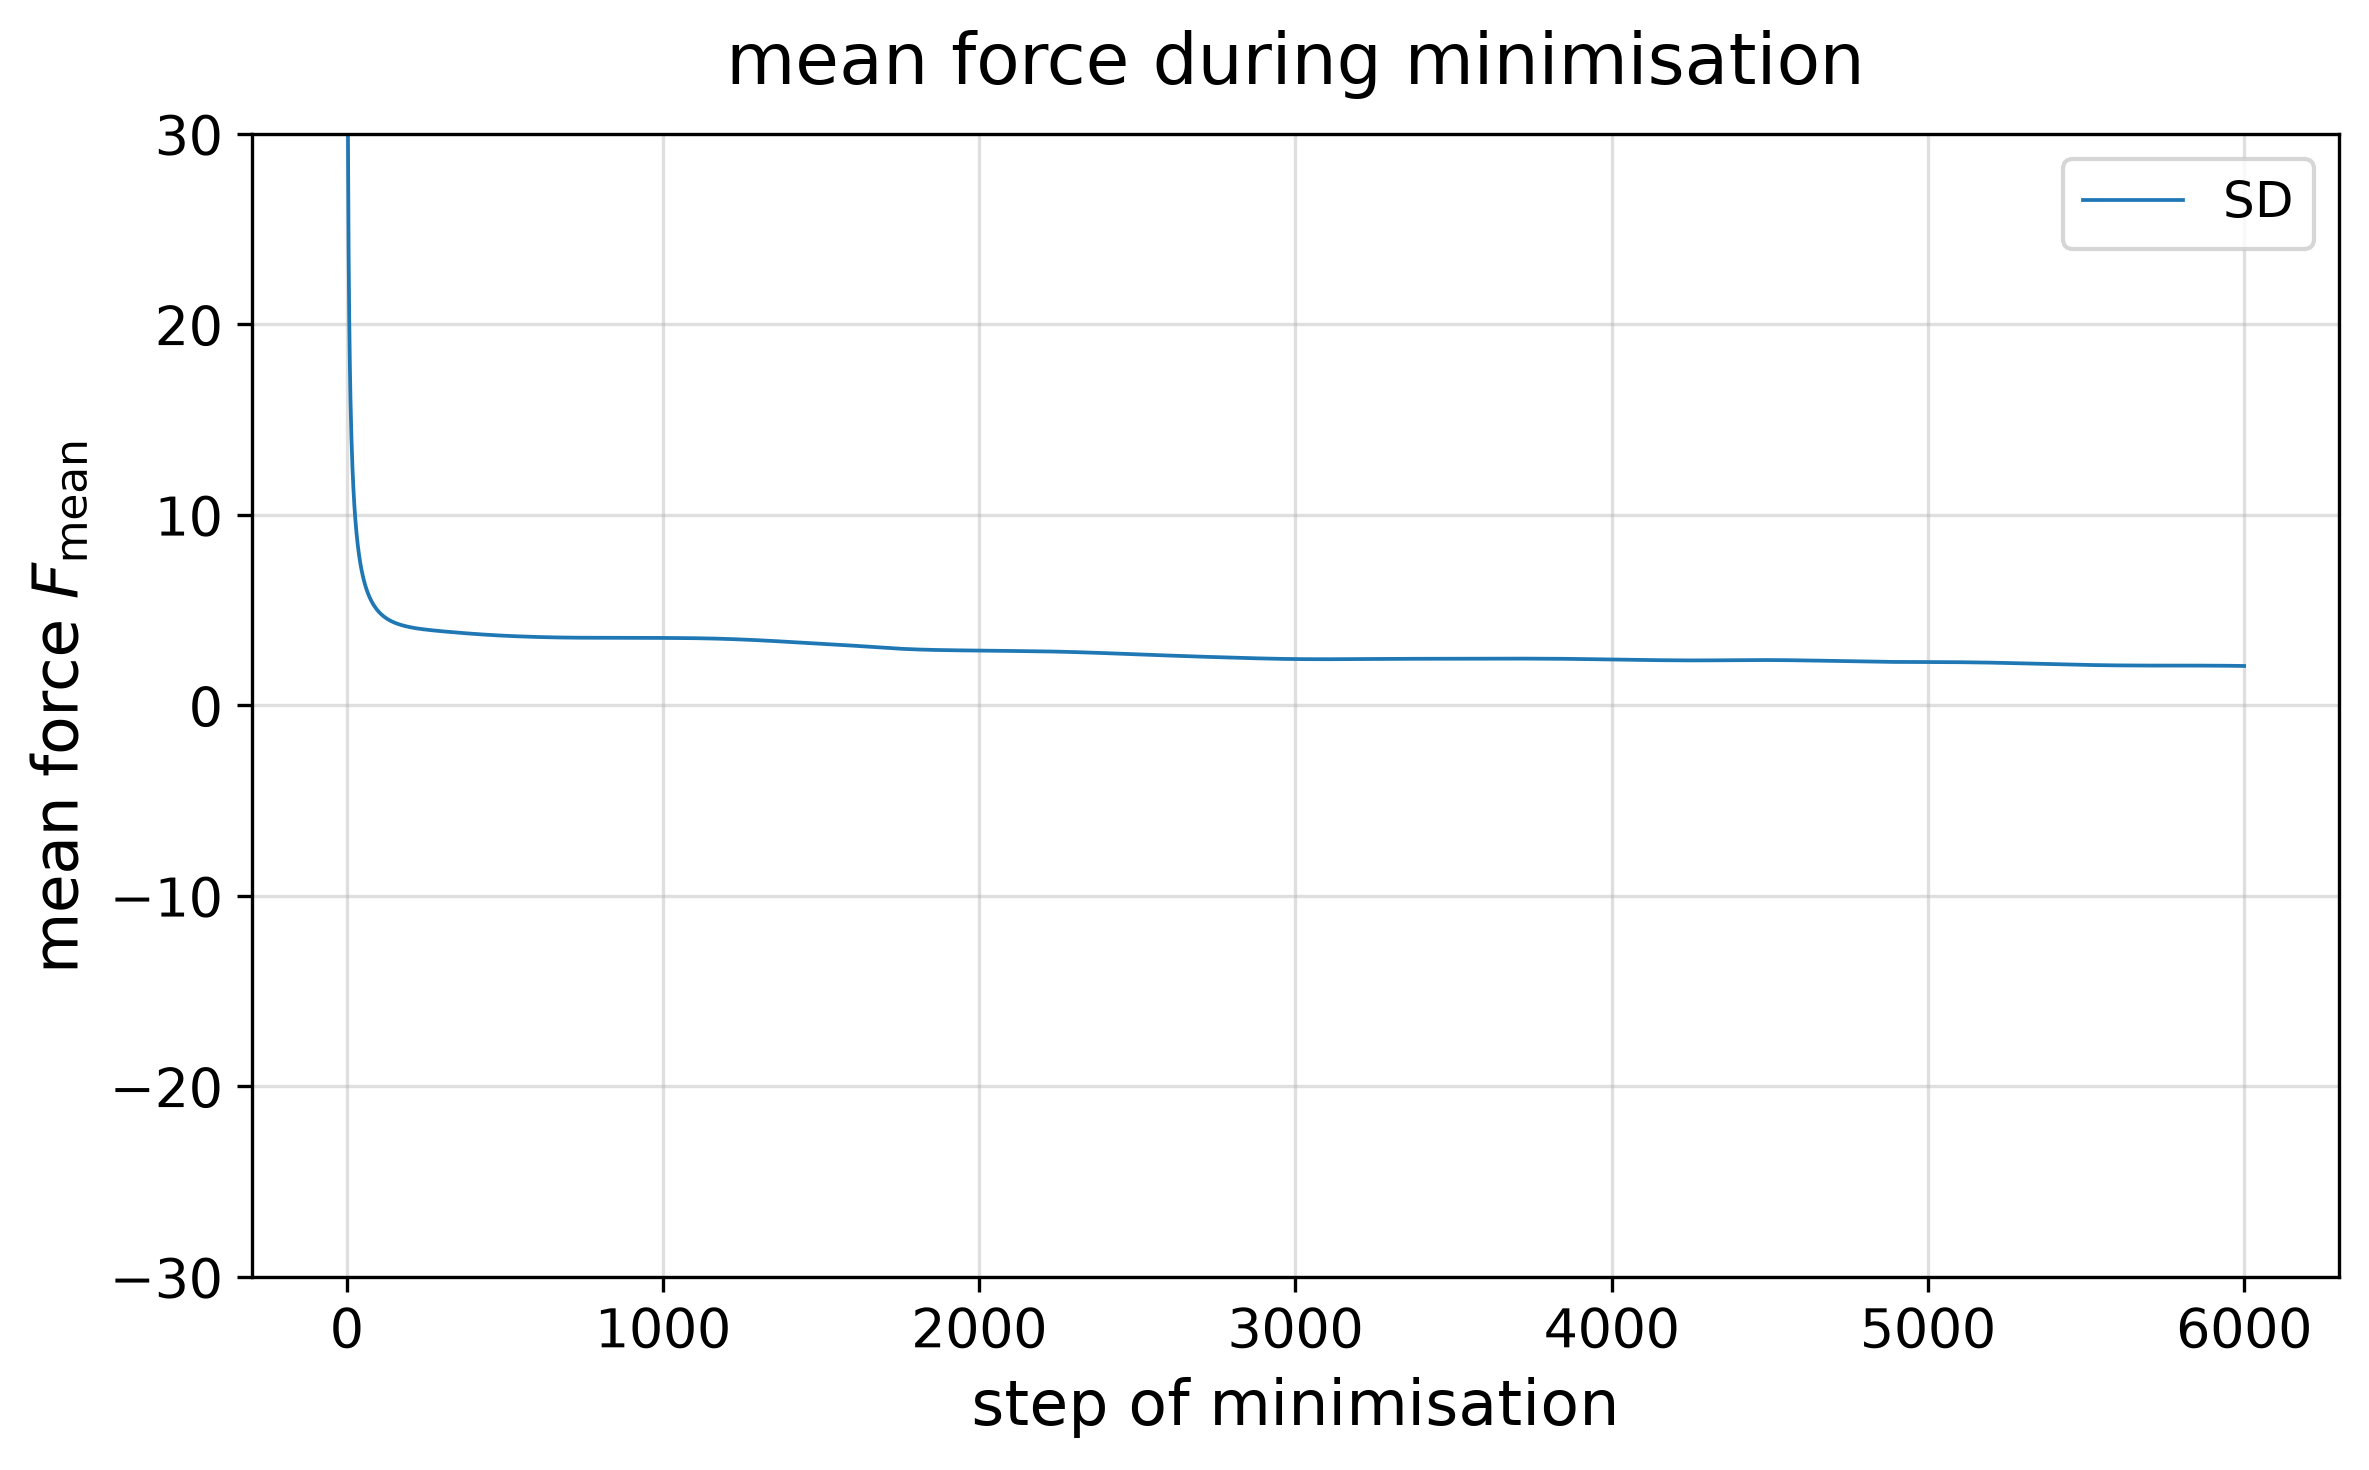
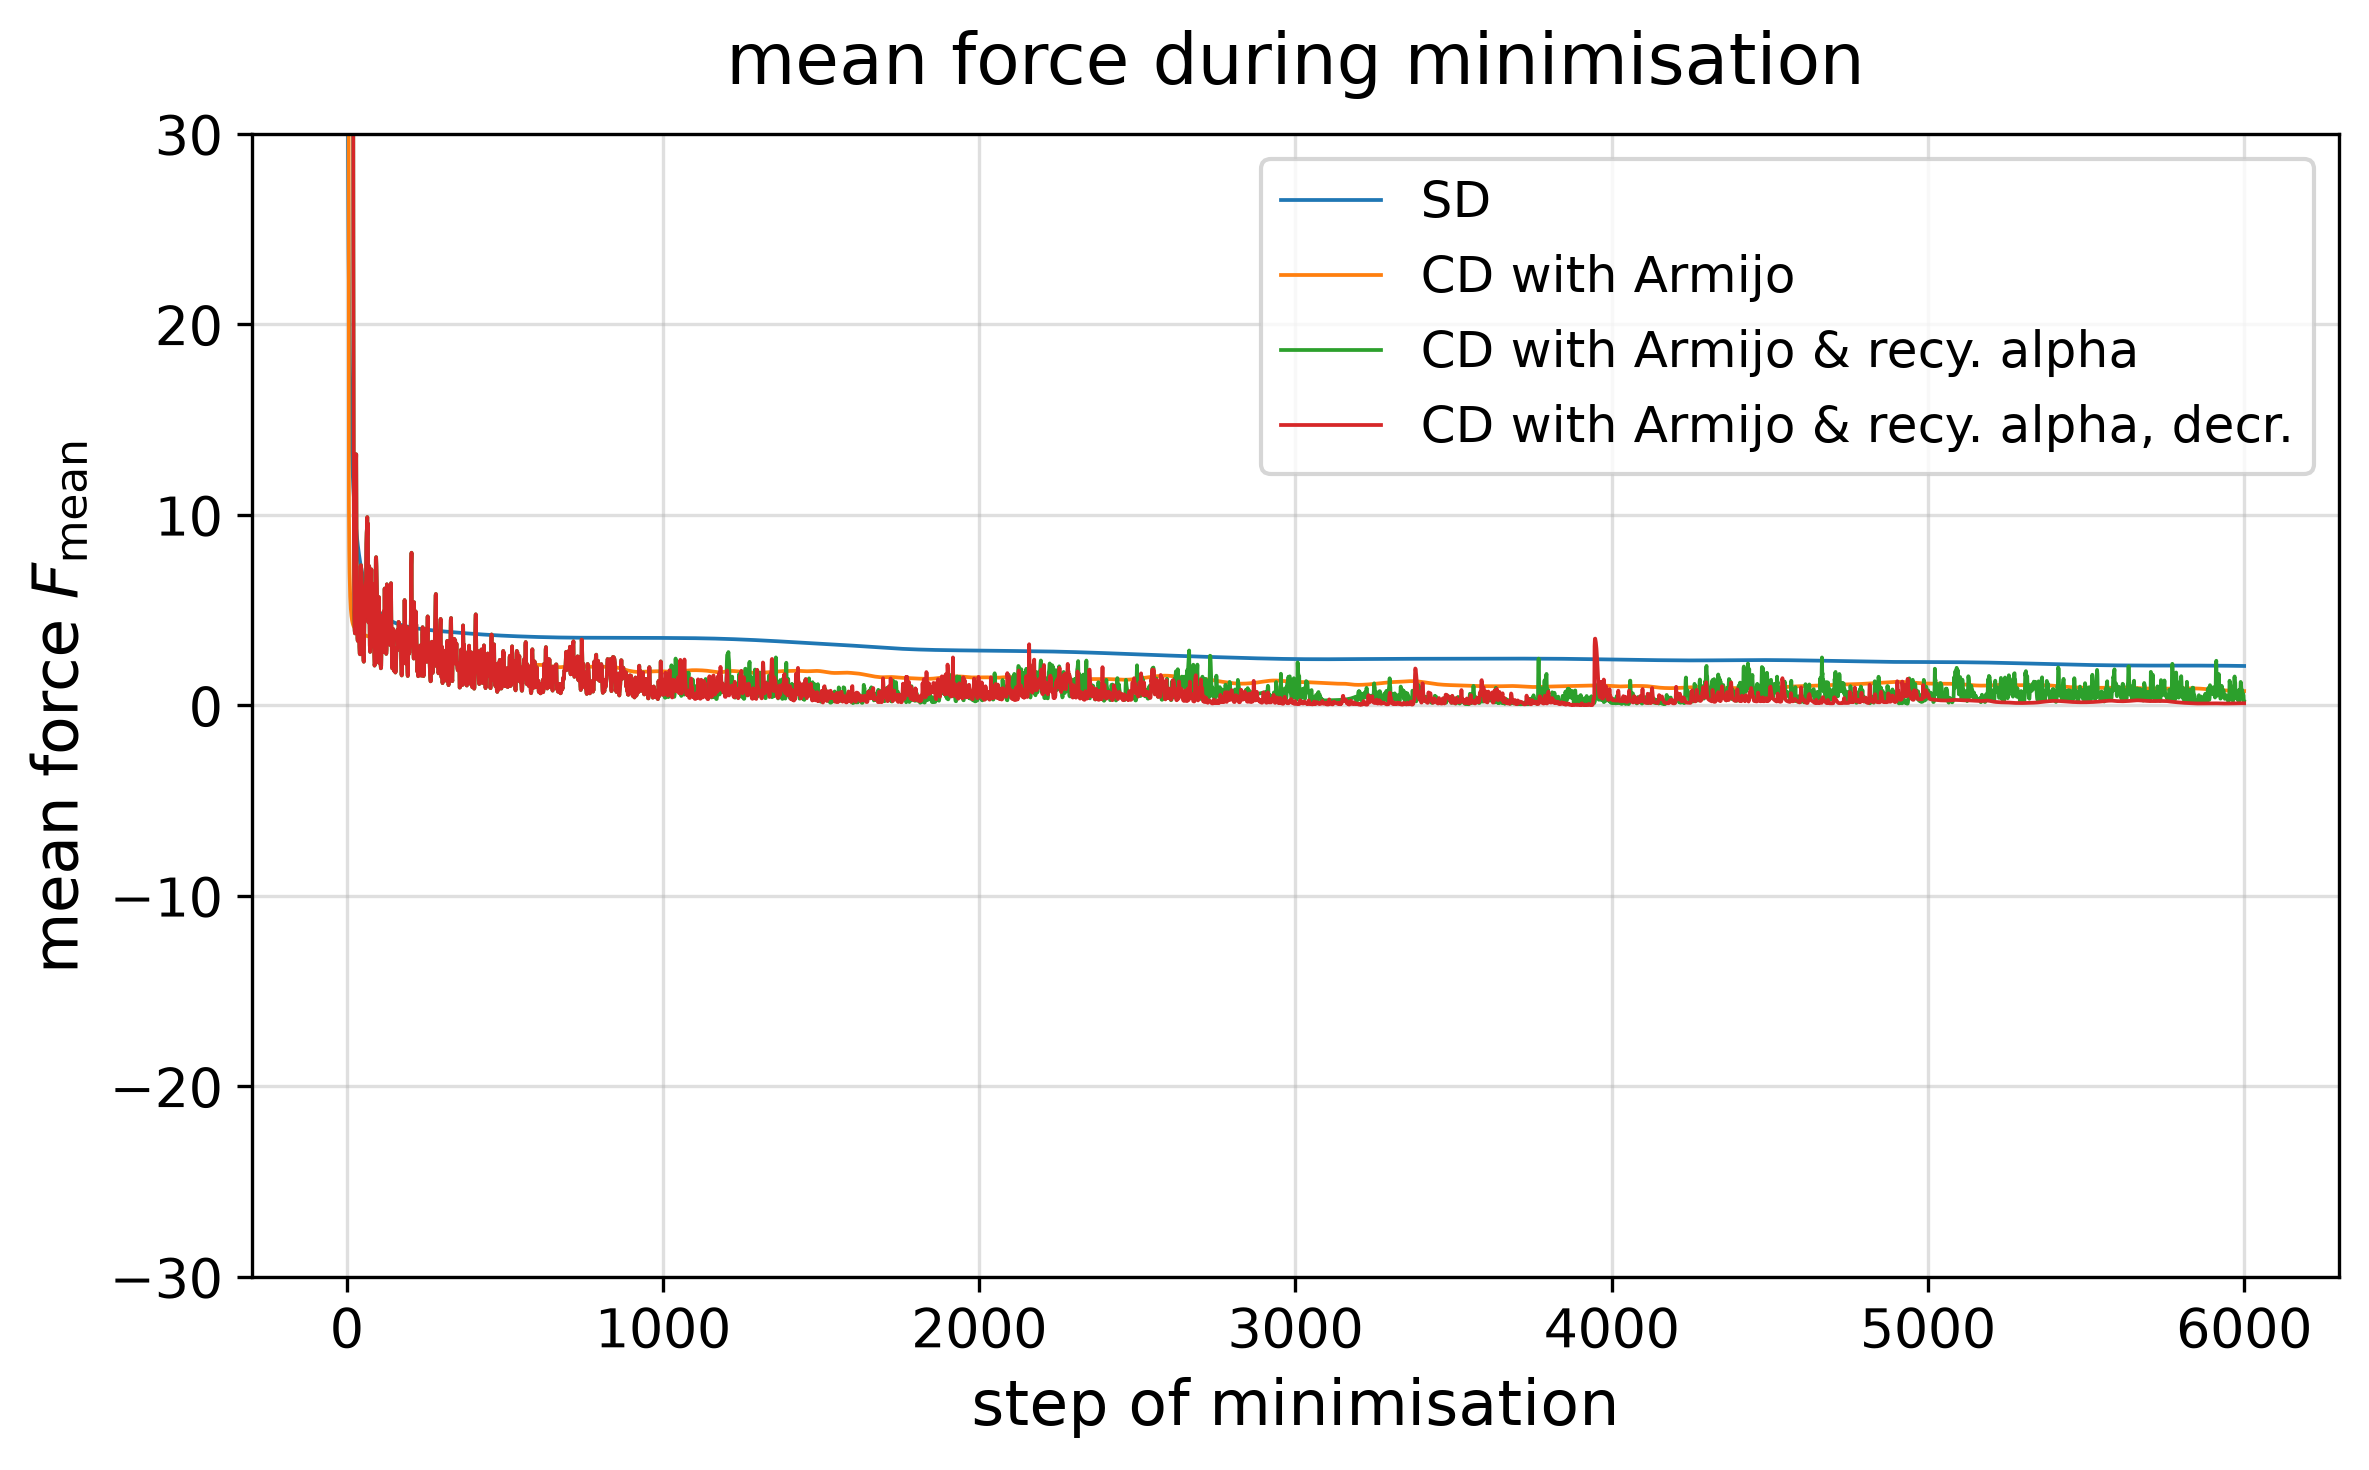
maaaaan warum roger waters

diff --git a/Methoden-vergleichen.py b/Methoden-vergleichen.py
@@ -53,6 +53,30 @@ methods = [
         "rec_alpha_value": 2.0,
         "alpha_new_idea": False,
     },
+        {
+        "label": "CD with Armijo",
+        "SD": False,
+        "recoursive_alpha": False,
+        "alpha_method": "amijo",
+        "rec_alpha_value": 2.0,
+        "alpha_new_idea": False,
+    },    
+    {
+        "label": "CD with Armijo & recy. alpha",
+        "SD": False,
+        "recoursive_alpha": True,
+        "alpha_method": "amijo",
+        "rec_alpha_value": 2.0,
+        "alpha_new_idea": False,
+    },
+    {
+        "label": "CD with Armijo & recy. alpha, decr.",
+        "SD": False,
+        "recoursive_alpha": True,
+        "alpha_method": "amijo",
+        "rec_alpha_value": 2.0,
+        "alpha_new_idea": True,
+    },
 
 ]
 
